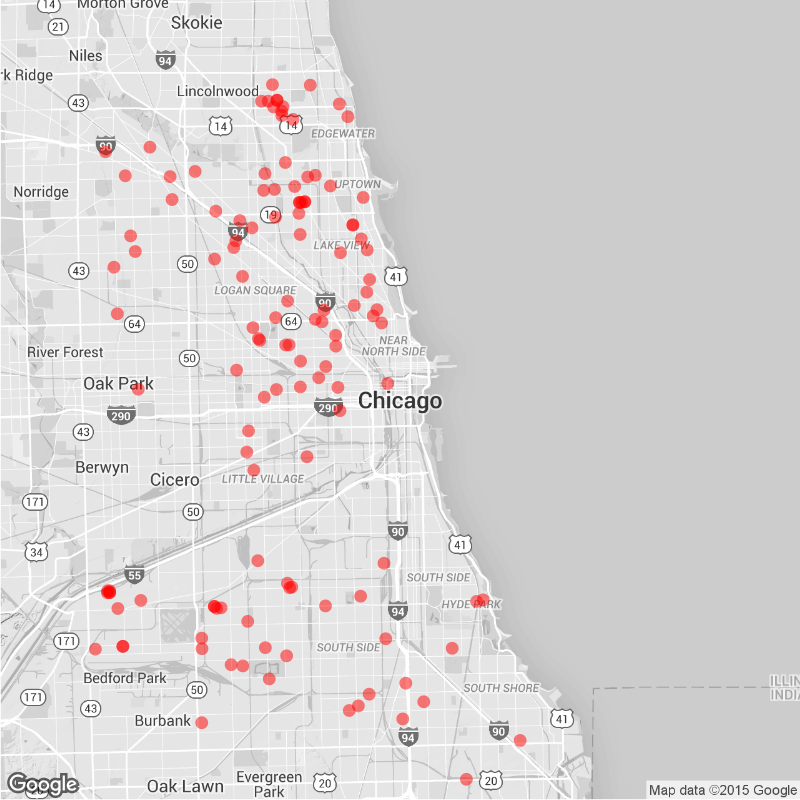
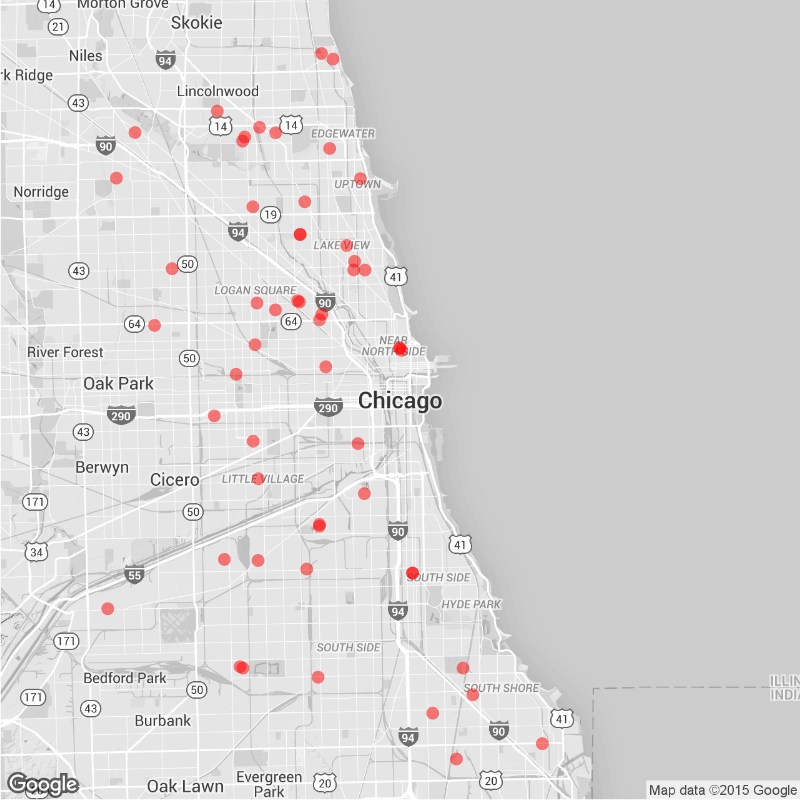
Daily Maps

diff --git a/daily.md b/daily.md
@@ -15,22 +15,22 @@ tags: Chicago NYC weekly daily rats
 
 ### Daily
 
-Yesterday (October 09), there were 137 calls to Chicago's 311 line about rats.
+Yesterday (October 10), there were 57 calls to Chicago's 311 line about rats.
 ![Chicago rat calls to 311 weekly map]({{ site.cityimages }}/daily/Chicago_Rat_Map_Daily.png)
 
 ### Weekly
-Between October 03 and October 09, there were 1011 calls to Chicago's 311 line about rats. The average number of weekly calls for this time of year is 725.
+Between October 04 and October 10, there were 1012 calls to Chicago's 311 line about rats. The average number of weekly calls for this time of year is 725.
 ![Chicago rat calls to 311 weekly map]({{ site.cityimages }}/daily/Chicago_Rat_Map_Weekly.png)
 ***
 # New York City <a id="nyc"><a>
 
 ### Daily
 
-Yesterday (October 09), there were 0 calls to New York City's 311 line about rats.
+Yesterday (October 10), there were 0 calls to New York City's 311 line about rats.
 ![NYC rat calls to 311 weekly map]({{ site.cityimages }}/daily/NYC_Rat_Map_Daily.png)
 
 ### Weekly
-Between October 03 and October 09, there were 0 calls to New York City's 311 line about rats. The average number of weekly calls for this time of year is 235.
+Between October 04 and October 10, there were 0 calls to New York City's 311 line about rats. The average number of weekly calls for this time of year is 235.
 ![NYC rat calls to 311 weekly map]({{ site.cityimages }}/daily/NYC_Rat_Map_Weekly.png)
 
 Each red dot represents one call about a rat seen in that location. The dots are transparent, so multiple calls from one location will be seen as a solid dot. The usual caveats apply: more calls do not necessarily mean that there are more rats in that location than other parts of the city. A cluster of dots could indicate that one resident is unusually vocal about rodents in his or her neighborhood. Also, more densely populated neighborhoods tend to make more calls to 311.
